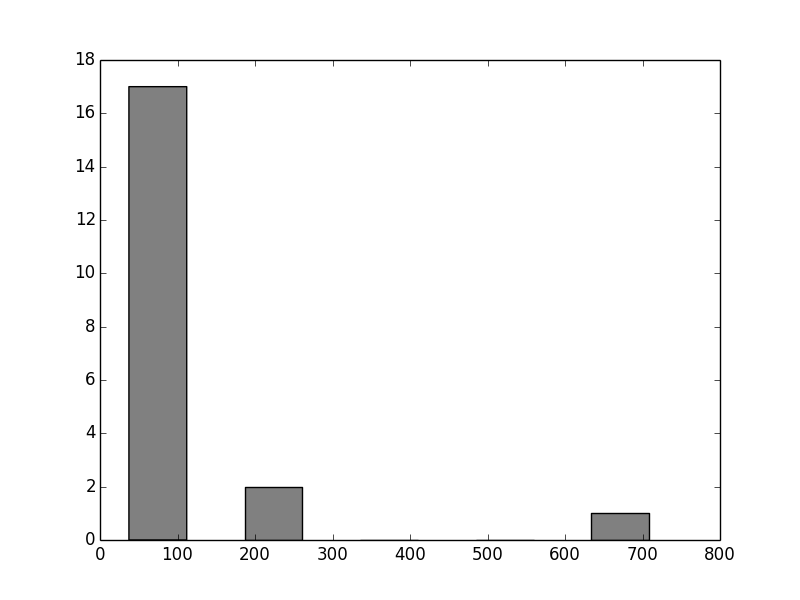
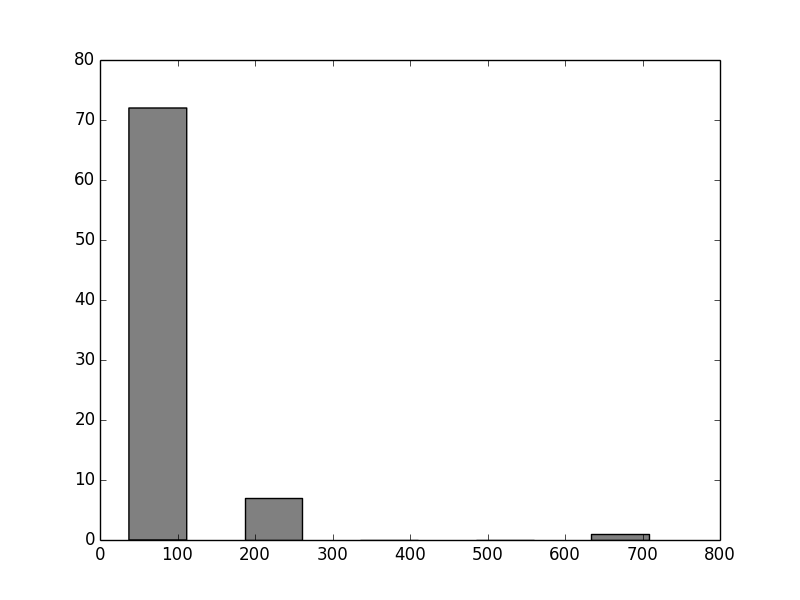
add

diff --git a/kakajxs/all_comment_count.py b/kakajxs/all_comment_count.py
@@ -11,22 +11,24 @@ REQUEST_URL = 'http://112.124.1.3:8004'
 
 
 def show_something():
-
         all_c = 'api/commodity/'
         sort = 'Shoes>Boys>Outdoor'
-
-        data = json.loads(urllib.urlopen('?'.join([('/'.join([REQUEST_URL,all_c])),urllib.urlencode({'category_name':sort})])).read())
+        data1 = json.loads(urllib.urlopen('?'.join([('/'.join([REQUEST_URL,all_c])),urllib.urlencode({'category_name':sort,'page':1})])).read())
+        data2 = json.loads(urllib.urlopen('?'.join([('/'.join([REQUEST_URL,all_c])),urllib.urlencode({'category_name':sort,'page':2})])).read())
+        data3 = json.loads(urllib.urlopen('?'.join([('/'.join([REQUEST_URL,all_c])),urllib.urlencode({'category_name':sort,'page':3})])).read())
+        data4 = json.loads(urllib.urlopen('?'.join([('/'.join([REQUEST_URL,all_c])),urllib.urlencode({'category_name':sort,'page':4})])).read())
+        data=data1+data2+data3+data4
         return data
 
 if __name__ == '__main__':
         data = show_something()
         comment_count_list=[]
         goods_list=[]
-        kind_list=[0 for i in range(11)]
         
         for goods in data:
                 comment_count_list.append(goods['stats_info']['review_count'])
                 goods_list.append(goods['ASIN'])
+
         plt.hist(comment_count_list, color ='grey', align = 'mid', bins = 5, rwidth = 0.5)
         plt.show()
 
